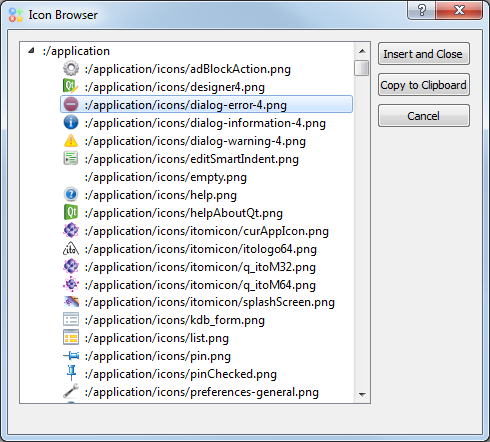
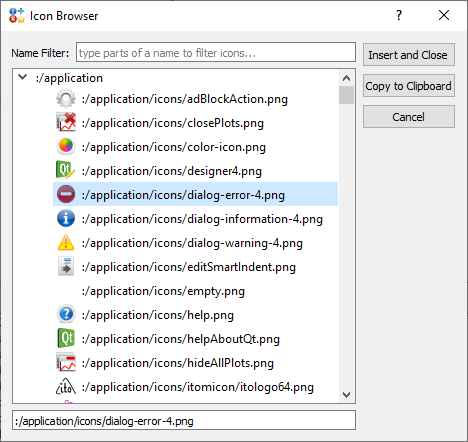
documentation added for navigation markers in scripts and new global bookmark management including the bookmark toolbox

diff --git a/Qitom/organizer/scriptEditorOrganizer.cpp b/Qitom/organizer/scriptEditorOrganizer.cpp
@@ -1043,7 +1043,15 @@ void ScriptEditorOrganizer::onGotoBookmark(const BookmarkItem &item)
 {
     if (item.filename != "")
     {
-        openScript(item.filename, NULL, item.lineIdx);
+        if (QFileInfo(item.filename).exists())
+        {
+            openScript(item.filename, NULL, item.lineIdx);
+        }
+        else
+        {
+            QMessageBox::information(NULL, tr("goto bookmark"), tr("The script '%1' does not exist. The bookmark will be removed.").arg(item.filename));
+            m_pBookmarkModel->deleteBookmark(item);
+        }
     }
 }
 
@@ -1093,7 +1101,7 @@ void ScriptEditorOrganizer::mnuNavigateBackward()
 {
     if (m_goBackNavigationIndex > 0)
     {
-        mnuNavigateBackwardItem(m_goBackNavigationIndex - 1);
+        mnuNavigateBackwardItem(qBound(0, m_goBackNavigationIndex - 1, m_goBackNavigationHistory.size() - 1));
     }
 }
 
@@ -1102,7 +1110,7 @@ void ScriptEditorOrganizer::mnuNavigateForward()
 {
     if (m_goBackNavigationIndex < m_goBackNavigationHistory.size() - 1)
     {
-        mnuNavigateBackwardItem(m_goBackNavigationIndex + 1);
+        mnuNavigateBackwardItem(qBound(0, m_goBackNavigationIndex + 1, m_goBackNavigationHistory.size() - 1));
     }
 }
 
@@ -1121,9 +1129,31 @@ void ScriptEditorOrganizer::mnuNavigateBackwardItem(int index)
 
         if (retValue.containsError())
         {
-            m_goBackNavigationIndex = curIndex;
-        }
+            if (retValue.hasErrorMessage())
+            {
+                QMessageBox::warning(NULL, tr("Navigation marker"), retValue.errorMessage());
+            }
+            else
+            {
+                QMessageBox::warning(NULL, tr("Navigation marker"), tr("General error jumping to the desired navigation marker"));
+            }
 
+            //it is likely that some scripts do not exist any more. Clear up
+            QString filename;
+
+            for (int i = m_goBackNavigationHistory.size() - 1; i >= 0; --i)
+            {
+                filename = m_goBackNavigationHistory[i].filename;
+
+                if (filename != "" && !QFileInfo(filename).exists())
+                {
+                    m_goBackNavigationHistory.removeAt(i);
+                }
+            }
+
+            m_goBackNavigationIndex = qBound(0, m_goBackNavigationIndex, m_goBackNavigationHistory.size() - 1);
+        }
+        
         updateGoBackNavigationActions();
     }
 }
@@ -1251,13 +1281,13 @@ RetVal ScriptEditorOrganizer::applyGoBackNavigationItem(const GoBackNavigationIt
             }
             else
             {
-                retValue += ito::RetVal(ito::retError, 0, "filename of go back navigation marker does not exist.");
+                retValue += ito::RetVal(ito::retError, 0, tr("File '%1' of go back navigation marker does not exist.").arg(item.filename).toLatin1().data());
             }
         }
     }
     else
     {
-        retValue = ito::RetVal(ito::retError, 0, "Permission denied to open a script");
+        retValue = ito::RetVal(ito::retError, 0, tr("Not enough rights to open scripts.").toLatin1().data());
     }
 
     return retValue;

diff --git a/Qitom/models/bookmarkModel.cpp b/Qitom/models/bookmarkModel.cpp
@@ -312,7 +312,7 @@ QVariant BookmarkModel::data(const QModelIndex &index, int role) const
     }
     else if (role == Qt::TextAlignmentRole)
     {
-        return Qt::AlignLeft | Qt::AlignVCenter;
+        return QVariant(Qt::Alignment(Qt::AlignLeft | Qt::AlignVCenter));
     }
     else if (role == RoleLineIdx)
     {
@@ -494,7 +494,7 @@ void BookmarkModel::gotoNextBookmark()
             m_currentIndex = 0;
         }
         
-        emit gotoBookmark(m_bookmarks[m_currentIndex]);
+        gotoBookmark(createIndex(m_currentIndex, 0));
     }
 }
 
@@ -510,7 +510,17 @@ void BookmarkModel::gotoPreviousBookmark()
             m_currentIndex = m_bookmarks.size() - 1;
         }
 
-        emit gotoBookmark(m_bookmarks[m_currentIndex]);
+        gotoBookmark(createIndex(m_currentIndex, 0));
+    }
+}
+
+//--------------------------------------------------------------------------------------------------------
+void BookmarkModel::gotoBookmark(const QModelIndex &index)
+{
+    BookmarkItem item = itemFromModelIndex(index);
+    if (item.isValid())
+    {
+        emit gotoBookmark(item);
     }
 }
 

diff --git a/Qitom/widgets/bookmarkDockWidget.cpp b/Qitom/widgets/bookmarkDockWidget.cpp
@@ -175,17 +175,7 @@ void BookmarkDockWidget::doubleClicked(const QModelIndex &index)
     if (index.isValid() && m)
     {
         QModelIndex idx = m->index(index.row(), 0, index.parent());
-        QString canonicalPath = m->data(idx, BookmarkModel::RoleFilename).toString();
-        int lineIdx = m->data(idx, BookmarkModel::RoleLineIdx).toInt();
-
-        if (!canonicalPath.isEmpty())
-        {
-            ScriptEditorOrganizer *seo = qobject_cast<ScriptEditorOrganizer*>(AppManagement::getScriptEditorOrganizer());
-            if (seo)
-            {
-                seo->openScript(canonicalPath, NULL, lineIdx);
-            }
-        }
+        m_pModel->gotoBookmark(idx);
     }
 }
 

diff --git a/Qitom/mainApplication.cpp b/Qitom/mainApplication.cpp
@@ -151,6 +151,7 @@ void MainApplication::registerMetaObjects()
     qRegisterMetaTypeStreamOperators<QList<ito::ScriptEditorStorage> >("QList<ito::ScriptEditorStorage>");
 
     qRegisterMetaTypeStreamOperators<ito::BreakPointItem>("BreakPointItem");
+    qRegisterMetaTypeStreamOperators<ito::BookmarkItem>("BookmarkItem");
 
     qRegisterMetaType<ito::tStreamMessageType>("ito::tStreamMessageType");
 }

diff --git a/Qitom/models/bookmarkModel.h b/Qitom/models/bookmarkModel.h
@@ -101,6 +101,8 @@ public:
     bool bookmarkExists(const BookmarkItem &item) const;
     bool bookmarkExists(const QString &filename, int lineno) const;
 
+    void gotoBookmark(const QModelIndex &index);
+
 protected:
     const BookmarkItem& itemFromModelIndex(const QModelIndex &index) const;
     QModelIndex modelIndexFromItem(const BookmarkItem &item) const;

diff --git a/docs/userDoc/source/04_itom_gui/editor.rst b/docs/userDoc/source/04_itom_gui/editor.rst
@@ -102,6 +102,42 @@ The breakpoints of this and other scripts are all listed in the :ref:`breakpoint
     
     In order to stop the script execution in a debug-mode in any method that is for instance called by clicking a button in an user-defined interface or via a timer event, you need to set a breakpoint in the corresponding line in the script and toggle the button |vardebugpython| **Run Python in debug mode** in the main window of |itom| (toolbar or menu **script**). The same holds for a method that you call from the command line. Toggle this button and set a breakpoint in the method in order to run this method in debug-mode and let the debugger stop in the line marked with the breakpoint.
 
+.. _gui-editor-bookmarks:
+
+Bookmarks
+============
+
+It is possible to mark certain lines in a or multiple scripts with bookmarks, displayed as star icon in the most-left column (left to the column numbers).
+The list of all bookmarks is then visible in the :ref:`bookmarks <gui-bookmarks>` toolbox of |itom|. To add a bookmark
+to a line, which is not decorated with a bookmark yet, either click in the most-left column in the desired line or
+click at any character in the desired line to move the cursor there and click the **toggle bookmark** button in the toolbar.
+
+To remove a bookmark, click on an existing bookmark icon in the editor again or click the **toggle bookmark** button again,
+if the cursor is currently in the line of a bookmark. It is additionally possible to clear all existing bookmarks.
+
+Using the **previous bookmark** and **next bookmark** buttons (in the toolbar of the editor, in the context menu of the most-left column
+or via the bookmark toolbox) it is possible to jump to the previous or next bookmark in the global list of bookmarks.
+
+Bookmarks are persisted at shutdown of |itom| and reloaded at the next startup. Bookmarks, that belong to non-existing
+Python scripts will not be persisted or reloaded.
+
+Navigate forward and backward
+===============================
+
+|itom| stores a list of last cursor positions in any scripts. This list is limited to 20 entries and can be accessed
+via the **Navigate Backward** or **Navigate Forward** buttons in the toolbar of any script editor. This allows jumping
+from the current cursor position to a previous or a following position. The full stack is contained in the submenu
+of the **Navigate Backward** button:
+
+.. figure:: images/scripteditor_navigation.png
+    :scale: 100%
+    :align: center
+
+Select one entry to directly jump to this file and line number. New items are added to this list in the following cases (among others):
+
+* the cursor has been moved into another script or more than 10 lines in the current script
+* the cursor was moved to a new location using the **Go to...** dialog or the search functionality
+* A destructive action (like hitting Backspace) was executed after having moved the cursor to a new location
 
 Syntax highlighting and indentation
 =====================================
@@ -240,4 +276,8 @@ These icons can directly be used inside of any script by their *virtual icon pat
 * **Copy to clipboard**: The path is copied to the clipboard. The browser stays open.
 * **Cancel**: Hides the dialog without further action.
 
-.. |vardebugpython| image:: images/pythonDebug.png  
+.. |vardebugpython| image:: images/pythonDebug.png
+
+Since there are a lot of icons, it is possible to filter the list by typing parts of an icon filename into the search
+box on top of the icon list. Instead of using the **Copy to clipboard** button, it is also possible to copy the 
+path of the selected icon from the textbox below the icon list.

diff --git a/docs/userDoc/source/04_itom_gui/mainWindow.rst b/docs/userDoc/source/04_itom_gui/mainWindow.rst
@@ -132,6 +132,7 @@ Content:
    plugins
    filesystem
    breakpoints
+   bookmarks
    commandHistory
    callStack
 
@@ -149,7 +150,8 @@ the loaded toolboxes. The items after the separator correspond to the toolbars, 
     :scale: 100%
     :align: center
 
-| It is possible to (un)dock the Toolboxes to the main frame at different positions. This is done by simple drag and drop of the titel bar of the toolboxes. Another way of (un)docking can be realized by double-clicking on the title bar.
+| It is possible to (un)dock the Toolboxes to the main frame at different positions. This is done by simple drag 
+| and drop of the titel bar of the toolboxes. Another way of (un)docking can be realized by double-clicking on the title bar.
 | At the startup of the iTOM software all 5 Toolboxes are activated, which are:
 
 The following main toolbars are available:
@@ -158,14 +160,5 @@ The following main toolbars are available:
 - :doc:`plugins` shows all loaded plugins including opened instances.
 - :doc:`filesystem` gives you access to the file system of your harddrive.
 - :doc:`breakpoints` shows all breakpoints added to Python scripts.
-- **callstack** shows the callstack when the Python script execution stops at a breakpoint.
-
-
-
-
-
-
-
-
-
-
+- :doc:`callStack` shows the callstack when the Python script execution stops at a breakpoint.
+- :doc:`bookmarks` shows all bookmarks added to any Python scripts.

diff --git a/docs/userDoc/source/04_itom_gui/bookmarks.rst b/docs/userDoc/source/04_itom_gui/bookmarks.rst
@@ -1,0 +1,30 @@
+.. include:: ../include/global.inc
+
+.. _gui-bookmarks:
+
+Bookmarks
+************
+
+|itom| provide the possibility to set bookmarks in different lines of desired Python scripts.
+This list is globally managed and reloaded until the next startup of |itom|.
+
+The overall list of all current bookmarks is shown in the bookmark toolbox:
+
+.. figure:: images/bookmarks.png
+    :scale: 100%
+    :align: center
+
+The toolbox provide the following features:
+
+    * Double click on a bookmark to display the bookmarked line in the corresponding script. The script
+      is opened, if it is not opened yet.
+    * Navigate to the next or previous bookmark: There is a current bookmark index. Depending on this index,
+      it is possible to either navigate to the following or previous bookmark. Once the end of the list is reached,
+      the first bookmark is shown.
+    * Clear all bookmarks: This will remove all bookmarks.
+
+To create a bookmark either click in the most-left column of the desired line in a Python script or
+click the **Toggle bookmark** button in a script editor. This will add a new bookmark in the line of the current cursor
+or remove a bookmark, if there is already one.
+
+For more information about the usage of bookmarks in a script editor, see this :ref:`documentation <gui-editor-bookmarks>`.
